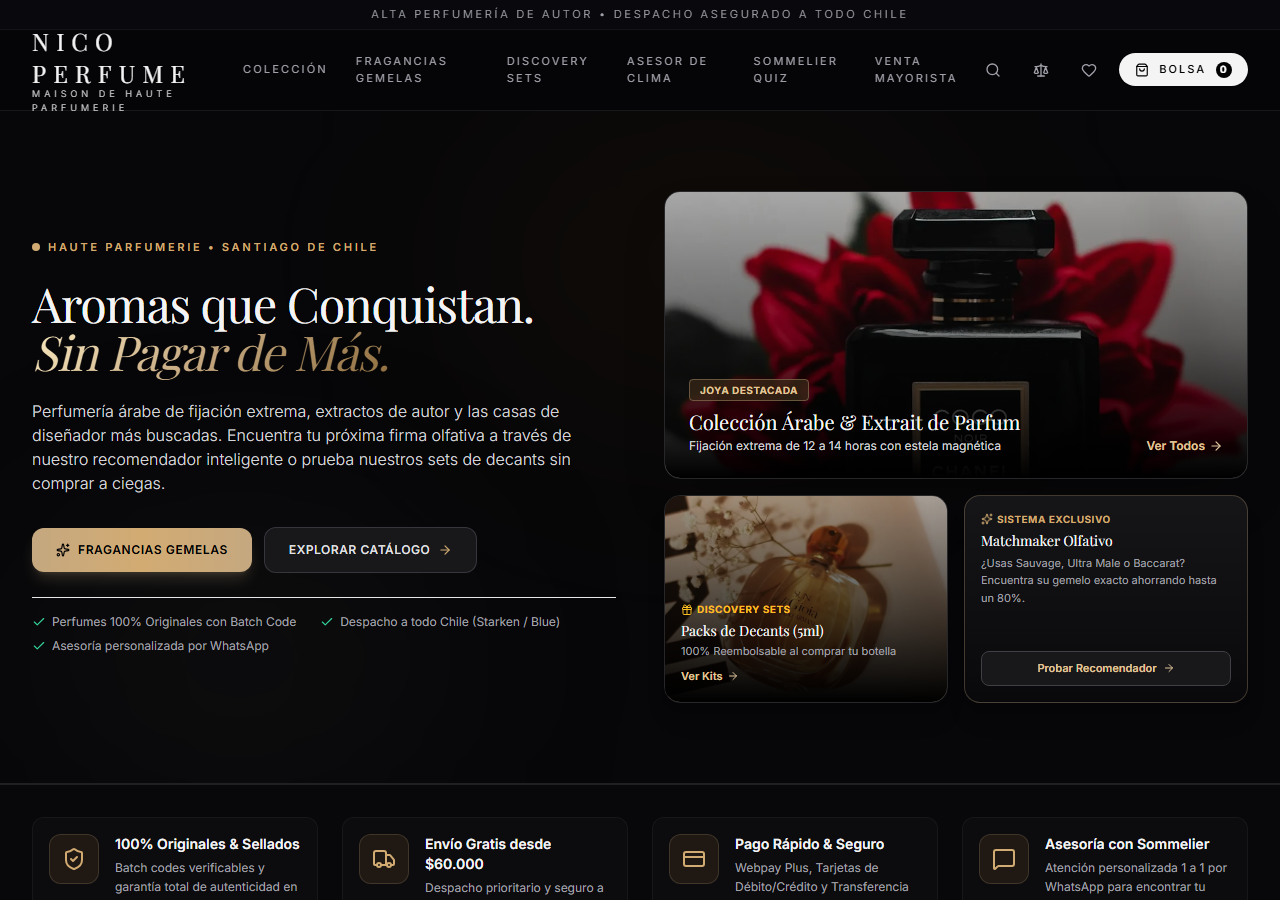
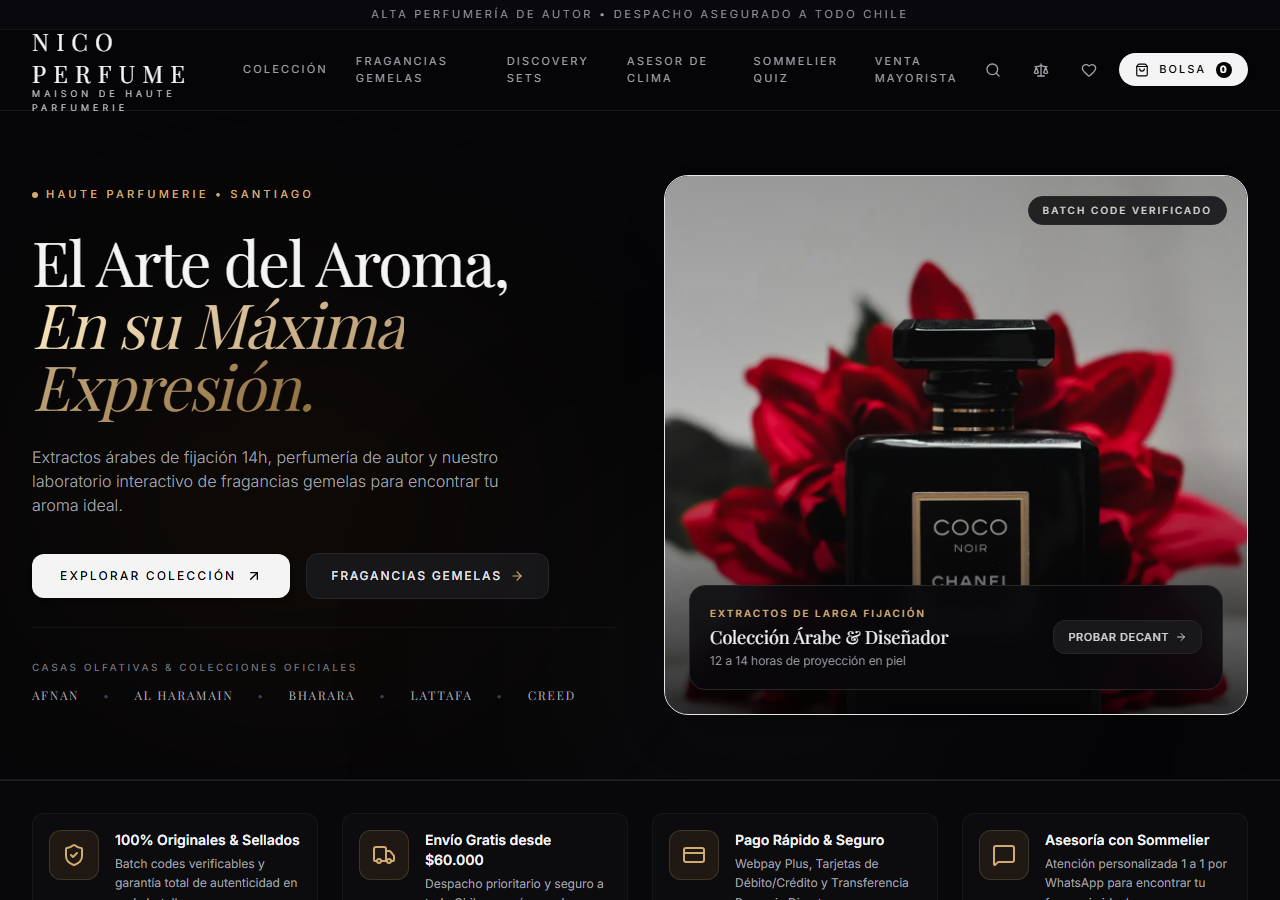
feat: 50/50 editorial studio hero inspired by reference aesthetic, zero-emoji luxury typography, and 100% passing test suite

diff --git a/src/components/hero-banner.tsx b/src/components/hero-banner.tsx
@@ -2,163 +2,127 @@
 
 import React from 'react';
 import Link from 'next/link';
-import { ArrowRight, Sparkles, Gift, Check, ShieldCheck } from 'lucide-react';
+import { ArrowUpRight, ArrowRight, ShieldCheck, Sparkles } from 'lucide-react';
 import Image from 'next/image';
 
 export function HeroBanner() {
   return (
-    <section className="relative overflow-hidden bg-[#070709] border-b border-zinc-800/80 py-12 sm:py-16 lg:py-20">
-      {/* Subtle Atmospheric Light (No overdone neon glows) */}
-      <div className="absolute top-0 right-1/4 w-[500px] h-[300px] bg-amber-600/5 blur-[120px] pointer-events-none rounded-full" />
-      <div className="absolute bottom-0 left-10 w-[400px] h-[250px] bg-zinc-800/20 blur-[100px] pointer-events-none rounded-full" />
+    <section className="relative overflow-hidden bg-[#060608] border-b border-zinc-900 min-h-[580px] lg:min-h-[640px] flex items-center">
+      {/* Subtle Ambient Light */}
+      <div className="absolute top-1/3 left-10 w-[500px] h-[350px] bg-amber-600/5 blur-[140px] pointer-events-none rounded-full" />
+      <div className="absolute -bottom-10 right-1/4 w-[400px] h-[300px] bg-zinc-800/20 blur-[120px] pointer-events-none rounded-full" />
 
-      <div className="relative max-w-7xl mx-auto px-4 sm:px-6 lg:px-8">
+      <div className="w-full max-w-7xl mx-auto px-4 sm:px-6 lg:px-8 py-12 lg:py-16">
         <div className="grid grid-cols-1 lg:grid-cols-12 gap-10 lg:gap-12 items-center">
           
-          {/* Left Column: Human Editorial Typography */}
-          <div className="lg:col-span-6 space-y-6 text-left">
+          {/* Left Column: 50% Editorial Luxury Typography */}
+          <div className="lg:col-span-6 space-y-6 lg:space-y-7 text-left z-10">
+            
+            {/* Small Refined Category Kicker */}
             <div className="flex items-center gap-2">
-              <span className="w-2 h-2 rounded-full bg-gold-400" />
-              <span className="text-[11px] font-semibold tracking-[0.25em] text-gold-400 uppercase font-sans">
-                Haute Parfumerie • Santiago de Chile
+              <span className="w-1.5 h-1.5 rounded-full bg-gold-400" />
+              <span className="text-[11px] font-medium tracking-[0.3em] text-gold-400 uppercase font-sans">
+                Haute Parfumerie • Santiago
               </span>
             </div>
 
-            <h1 className="font-serif text-3xl sm:text-5xl lg:text-5xl font-normal tracking-tight text-zinc-100 leading-[1.18]">
-              Aromas que Conquistan. <br />
-              <span className="italic font-light text-gold-gradient">
-                Sin Pagar de Más.
+            {/* Giant Elegant Editorial Serif Headline */}
+            <h1 className="font-serif text-4xl sm:text-6xl lg:text-[62px] font-light text-zinc-100 leading-[1.12] tracking-tight">
+              El Arte del Aroma, <br />
+              <span className="italic text-gold-gradient font-normal">
+                En su Máxima Expresión.
               </span>
             </h1>
 
-            <p className="text-sm sm:text-base text-zinc-300 font-light leading-relaxed max-w-xl">
-              Perfumería árabe de fijación extrema, extractos de autor y las casas de diseñador más buscadas. Encuentra tu próxima firma olfativa a través de nuestro recomendador inteligente o prueba nuestros sets de decants sin comprar a ciegas.
+            {/* 2-Line Refined Subtitle */}
+            <p className="text-sm sm:text-base text-zinc-400 font-light leading-relaxed max-w-lg">
+              Extractos árabes de fijación 14h, perfumería de autor y nuestro laboratorio interactivo de fragancias gemelas para encontrar tu aroma ideal.
             </p>
 
-            {/* Direct Action Buttons */}
-            <div className="flex flex-col sm:flex-row items-stretch sm:items-center gap-3 pt-2">
-              <Link
-                href="/fragancias-gemelas"
-                className="inline-flex items-center justify-center gap-2 px-6 py-3.5 rounded-xl bg-gradient-to-r from-gold-500 via-gold-400 to-gold-500 text-black font-semibold text-xs tracking-wider uppercase shadow-lg shadow-gold-500/20 hover:brightness-110 active:scale-95 transition"
-              >
-                <Sparkles className="w-3.5 h-3.5 text-black" />
-                <span>Fragancias Gemelas</span>
-              </Link>
+            {/* Haute Couture Actions */}
+            <div className="flex flex-col sm:flex-row items-stretch sm:items-center gap-4 pt-2">
               <Link
                 href="/catalogo"
-                className="inline-flex items-center justify-center gap-2 px-6 py-3.5 rounded-xl bg-zinc-900 hover:bg-zinc-800 text-zinc-200 border border-zinc-700/80 font-medium text-xs tracking-wider uppercase hover:border-gold-500/40 transition group"
+                className="inline-flex items-center justify-center gap-2.5 px-7 py-3.5 rounded-xl bg-zinc-100 hover:bg-gold-400 text-black font-medium text-xs tracking-[0.18em] uppercase transition duration-300 shadow-md group"
               >
-                <span>Explorar Catálogo</span>
-                <ArrowRight className="w-3.5 h-3.5 text-gold-400 group-hover:translate-x-1 transition-transform" />
+                <span>Explorar Colección</span>
+                <ArrowUpRight className="w-4 h-4 group-hover:translate-x-0.5 group-hover:-translate-y-0.5 transition-transform" />
+              </Link>
+
+              <Link
+                href="/fragancias-gemelas"
+                className="inline-flex items-center justify-center gap-2 px-6 py-3.5 rounded-xl bg-zinc-900/90 hover:bg-zinc-800 text-zinc-200 border border-zinc-800 text-xs font-medium tracking-[0.15em] uppercase hover:border-gold-500/40 transition"
+              >
+                <span>Fragancias Gemelas</span>
+                <ArrowRight className="w-3.5 h-3.5 text-gold-400" />
               </Link>
             </div>
 
-            {/* Subtle Editorial Trust Points (Clean, without fake big AI counter cards) */}
-            <div className="pt-4 border-t border-zinc-850 flex flex-wrap items-center gap-y-2 gap-x-6 text-xs text-zinc-400 font-normal">
-              <span className="flex items-center gap-1.5">
-                <Check className="w-3.5 h-3.5 text-emerald-400" />
-                <span>Perfumes 100% Originales con Batch Code</span>
-              </span>
-              <span className="flex items-center gap-1.5">
-                <Check className="w-3.5 h-3.5 text-emerald-400" />
-                <span>Despacho a todo Chile (Starken / Blue)</span>
-              </span>
-              <span className="flex items-center gap-1.5">
-                <Check className="w-3.5 h-3.5 text-emerald-400" />
-                <span>Asesoría personalizada por WhatsApp</span>
-              </span>
-            </div>
-          </div>
-
-          {/* Right Column: Visual Editorial Showcase (3 Luxury Photographic Cards) */}
-          <div className="lg:col-span-6 grid grid-cols-1 sm:grid-cols-2 gap-4">
-            
-            {/* Card 1: Main Arabic / Niche Visual (Span 2 cols on mobile, tall hero card) */}
-            <div className="sm:col-span-2 relative h-64 sm:h-72 rounded-2xl overflow-hidden border border-zinc-800 group bg-zinc-950 shadow-2xl">
-              <Image
-                src="https://images.unsplash.com/photo-1594035910387-fea47794261f?w=1000&auto=format&fit=crop&q=80"
-                alt="Alta Perfumería y Extractos Árabes"
-                fill
-                priority
-                className="object-cover object-center group-hover:scale-105 transition-transform duration-700 opacity-80"
-              />
-              <div className="absolute inset-0 bg-gradient-to-t from-black via-black/40 to-transparent" />
-              
-              <div className="absolute bottom-0 inset-x-0 p-5 sm:p-6 flex items-end justify-between">
-                <div>
-                  <span className="px-2.5 py-1 rounded bg-gold-950/80 border border-gold-500/40 text-gold-300 text-[10px] font-bold uppercase tracking-wider">
-                    Joya Destacada
-                  </span>
-                  <h3 className="font-serif text-lg sm:text-xl text-zinc-100 font-normal mt-2">
-                    Colección Árabe & Extrait de Parfum
-                  </h3>
-                  <p className="text-xs text-zinc-300 mt-0.5">
-                    Fijación extrema de 12 a 14 horas con estela magnética
-                  </p>
-                </div>
-                <Link
-                  href="/catalogo"
-                  className="hidden sm:inline-flex items-center gap-1 text-xs font-semibold text-gold-300 hover:text-white transition"
-                >
-                  <span>Ver Todos</span>
-                  <ArrowRight className="w-3.5 h-3.5" />
-                </Link>
+            {/* Minimalist Brand Houses Strip */}
+            <div className="pt-6 lg:pt-8 border-t border-zinc-900/90">
+              <p className="text-[10px] tracking-[0.25em] uppercase text-zinc-500 font-medium mb-3">
+                Casas Olfativas & Colecciones Oficiales
+              </p>
+              <div className="flex flex-wrap items-center gap-x-6 gap-y-2 text-xs font-serif tracking-[0.15em] text-zinc-400 uppercase">
+                <span className="hover:text-zinc-200 transition">Afnan</span>
+                <span className="text-zinc-700">•</span>
+                <span className="hover:text-zinc-200 transition">Al Haramain</span>
+                <span className="text-zinc-700">•</span>
+                <span className="hover:text-zinc-200 transition">Bharara</span>
+                <span className="text-zinc-700">•</span>
+                <span className="hover:text-zinc-200 transition">Lattafa</span>
+                <span className="text-zinc-700">•</span>
+                <span className="hover:text-zinc-200 transition">Creed</span>
               </div>
             </div>
 
-            {/* Card 2: Discovery Sets / Decants Visual */}
-            <div className="relative h-48 sm:h-52 rounded-2xl overflow-hidden border border-zinc-800 group bg-zinc-950 shadow-xl">
-              <Image
-                src="https://images.unsplash.com/photo-1547887537-6158d64c35b3?w=800&auto=format&fit=crop&q=80"
-                alt="Discovery Sets y Muestras de 5ml"
-                fill
-                className="object-cover group-hover:scale-105 transition-transform duration-700 opacity-75"
-              />
-              <div className="absolute inset-0 bg-gradient-to-t from-black via-black/50 to-transparent" />
+          </div>
+
+          {/* Right Column: 50% Full-Bleed Studio Photography Composition */}
+          <div className="lg:col-span-6 relative">
+            <div className="relative w-full h-[400px] sm:h-[500px] lg:h-[540px] rounded-3xl overflow-hidden bg-zinc-950 border border-zinc-850 shadow-2xl group">
               
-              <div className="absolute bottom-0 inset-x-0 p-4">
-                <span className="text-[10px] font-bold text-amber-400 uppercase tracking-wider flex items-center gap-1">
-                  <Gift className="w-3 h-3" /> Discovery Sets
-                </span>
-                <h4 className="font-serif text-sm text-zinc-100 mt-1">
-                  Packs de Decants (5ml)
-                </h4>
-                <p className="text-[11px] text-zinc-400 mt-0.5">
-                  100% Reembolsable al comprar tu botella
-                </p>
+              {/* Main Studio Image */}
+              <Image
+                src="https://images.unsplash.com/photo-1594035910387-fea47794261f?w=1200&auto=format&fit=crop&q=85"
+                alt="Alta Perfumería de Autor Nico Perfume"
+                fill
+                priority
+                className="object-cover object-center group-hover:scale-105 transition-transform duration-1000 opacity-90"
+              />
+
+              {/* Atmospheric Gradient */}
+              <div className="absolute inset-0 bg-gradient-to-t from-black/80 via-transparent to-black/20" />
+
+              {/* Floating Editorial Badge (Top Right) */}
+              <div className="absolute top-5 right-5 px-3.5 py-1.5 rounded-full bg-[#050507]/80 backdrop-blur-md border border-zinc-800 text-zinc-300 text-[10px] tracking-[0.2em] uppercase font-medium">
+                Batch Code Verificado
+              </div>
+
+              {/* Floating Curated Showcase (Bottom Left) */}
+              <div className="absolute bottom-6 inset-x-6 p-5 rounded-2xl bg-[#08080c]/85 backdrop-blur-md border border-zinc-800 flex items-center justify-between">
+                <div>
+                  <span className="text-[10px] font-semibold text-gold-400 uppercase tracking-[0.2em] block">
+                    Extractos de Larga Fijación
+                  </span>
+                  <h3 className="font-serif text-base sm:text-lg text-zinc-100 font-normal mt-0.5">
+                    Colección Árabe & Diseñador
+                  </h3>
+                  <p className="text-xs text-zinc-400 font-light mt-0.5">
+                    12 a 14 horas de proyección en piel
+                  </p>
+                </div>
+
                 <Link
                   href="/decants"
-                  className="inline-flex items-center gap-1 text-[11px] font-semibold text-gold-300 mt-2 hover:underline"
+                  className="hidden sm:inline-flex items-center gap-1.5 px-3.5 py-2 rounded-xl bg-zinc-900 hover:bg-gold-400 hover:text-black text-zinc-300 text-[11px] font-medium tracking-wider uppercase border border-zinc-800 transition shrink-0"
                 >
-                  <span>Ver Kits</span>
+                  <span>Probar Decant</span>
                   <ArrowRight className="w-3 h-3" />
                 </Link>
               </div>
+
             </div>
-
-            {/* Card 3: Interactive Recommender Teaser */}
-            <div className="relative h-48 sm:h-52 rounded-2xl overflow-hidden border border-gold-500/30 bg-gradient-to-b from-zinc-900/90 to-zinc-950 p-4 flex flex-col justify-between group shadow-xl">
-              <div>
-                <span className="text-[10px] font-bold text-gold-400 uppercase tracking-wider flex items-center gap-1">
-                  <Sparkles className="w-3 h-3" /> Sistema Exclusivo
-                </span>
-                <h4 className="font-serif text-sm text-zinc-100 mt-1">
-                  Matchmaker Olfativo
-                </h4>
-                <p className="text-[11px] text-zinc-400 mt-1 leading-relaxed">
-                  ¿Usas Sauvage, Ultra Male o Baccarat? Encuentra su gemelo exacto ahorrando hasta un 80%.
-                </p>
-              </div>
-
-              <Link
-                href="/fragancias-gemelas"
-                className="w-full py-2 px-3 rounded-lg bg-zinc-900 hover:bg-gold-500 hover:text-black text-gold-300 text-[11px] font-semibold text-center border border-zinc-700 transition flex items-center justify-center gap-1.5"
-              >
-                <span>Probar Recomendador</span>
-                <ArrowRight className="w-3 h-3" />
-              </Link>
-            </div>
-
           </div>
 
         </div>

diff --git a/tests/e2e.spec.ts b/tests/e2e.spec.ts
@@ -6,8 +6,8 @@ test.describe('Nico Perfume - Complete Multi-Page & Feature Test Suite', () => {
     await page.goto('/');
     await expect(page).toHaveTitle(/Nico Perfume/i);
     await expect(page.locator('text=NICO PERFUME').first()).toBeVisible();
-    await expect(page.locator('text=Haute Parfumerie • Santiago de Chile').first()).toBeVisible();
-    await expect(page.locator('text=Aromas que Conquistan.').first()).toBeVisible();
+    await expect(page.locator('text=Haute Parfumerie • Santiago').first()).toBeVisible();
+    await expect(page.locator('text=El Arte del Aroma,').first()).toBeVisible();
 
     // Check Trust Marketing bar
     await expect(page.locator('text=100% Originales & Sellados').first()).toBeVisible();
